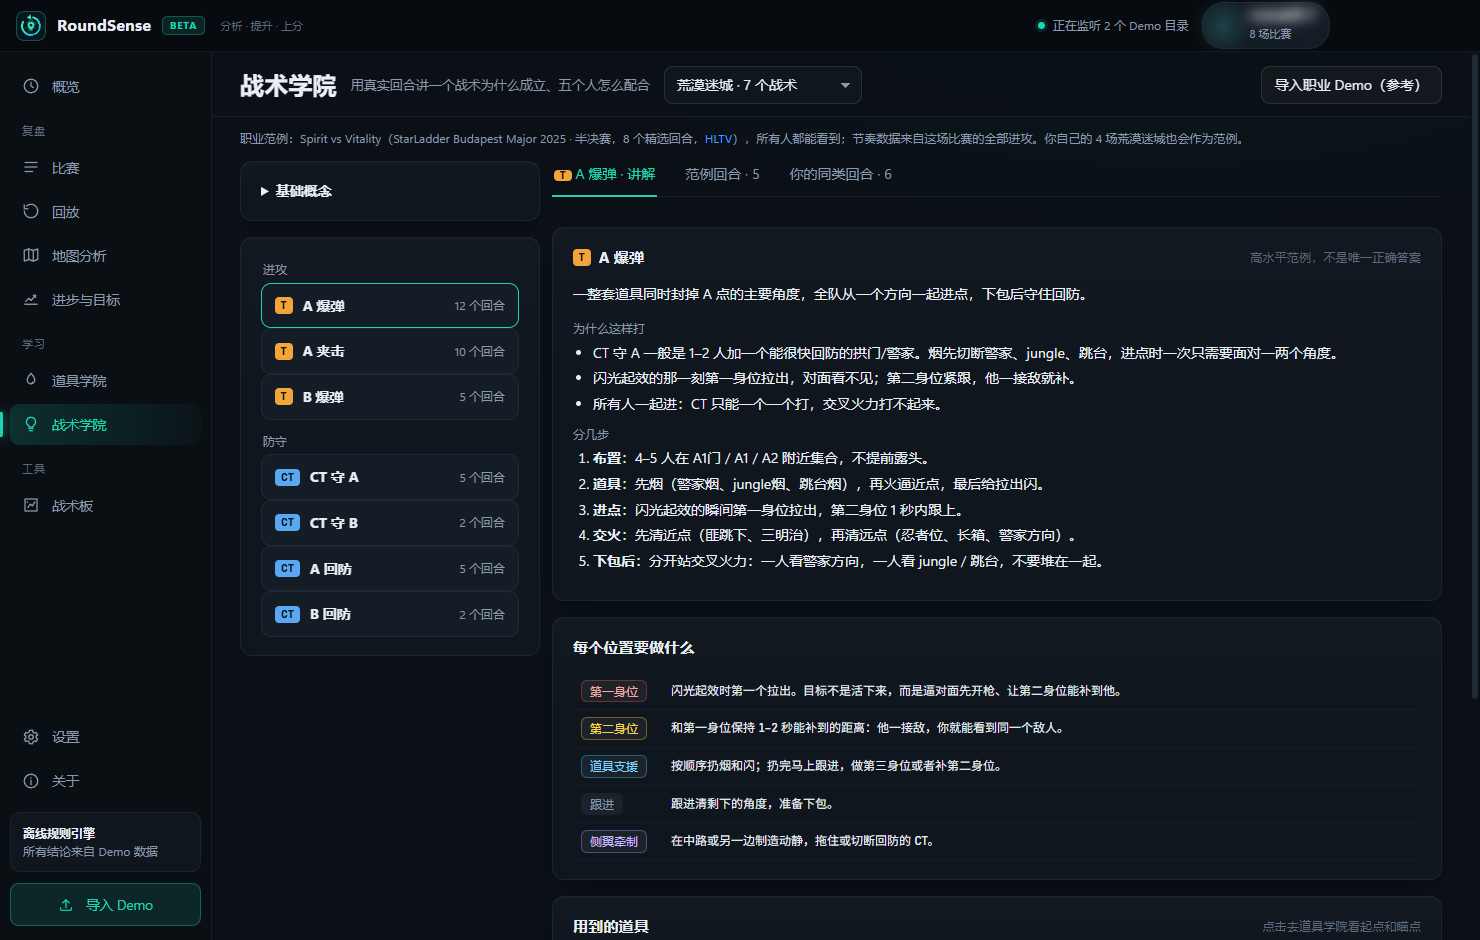
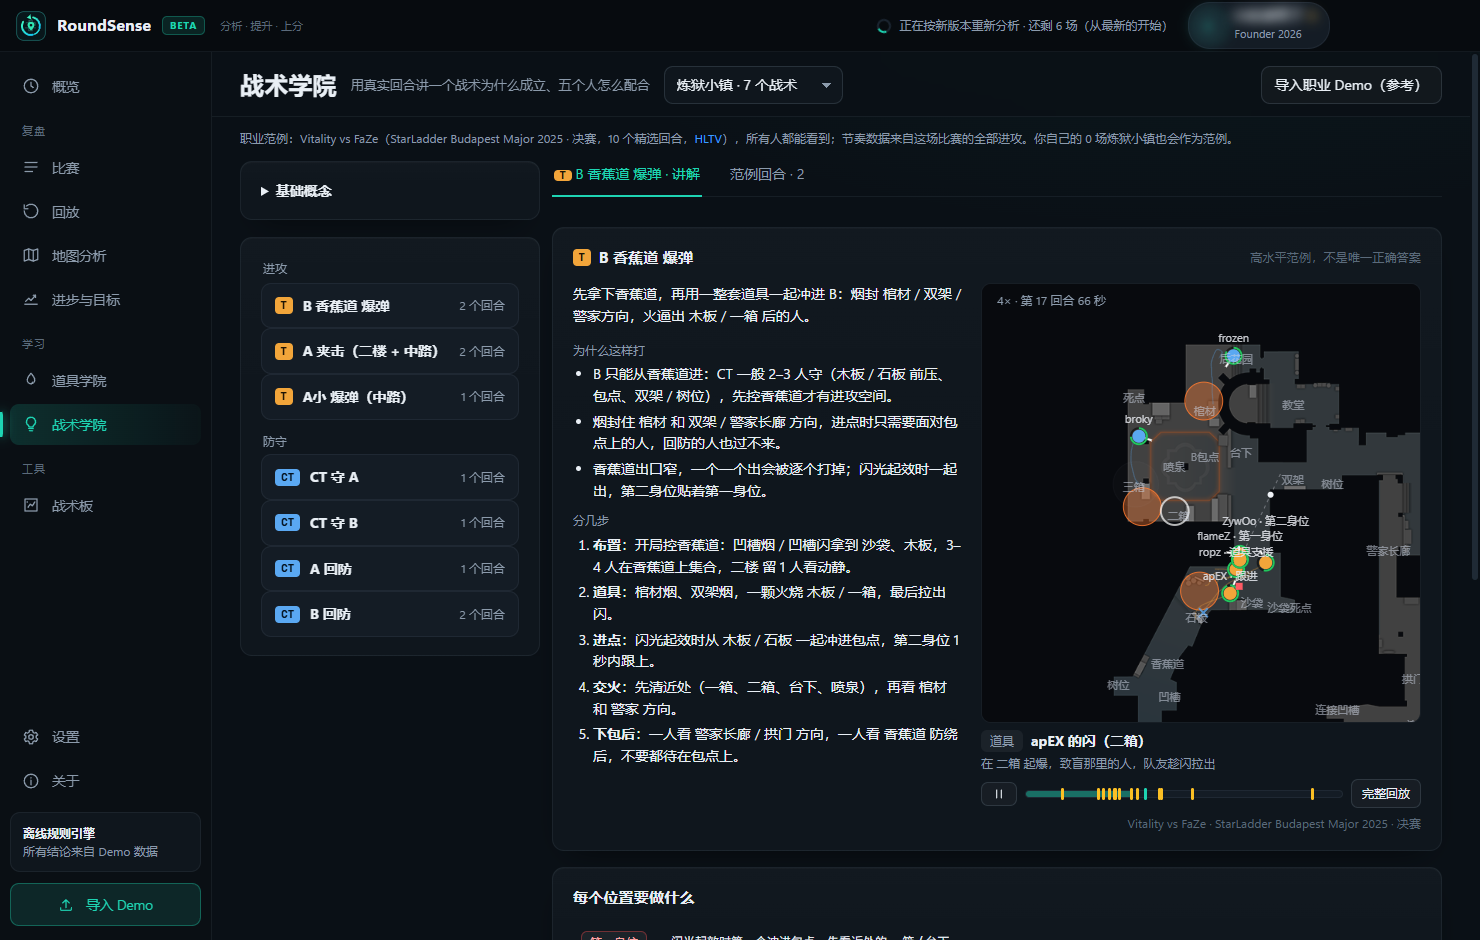
Screenshot: tactics academy with the pro clip playing

diff --git a/README.en.md b/README.en.md
@@ -43,7 +43,7 @@ Every conclusion comes from demo data and a deterministic rule engine, with evid
 |---|---|
 | ![Replay](images/replay-lesson.png) | ![3D replay](images/replay-3d.png) |
 
-| Tactical academy | Tactical board |
+| Tactical academy (a pro round plays beside each tactic) | Tactical board |
 |---|---|
 | ![Academy](images/academy.png) | ![Board](images/board.png) |
 

diff --git a/README.md b/README.md
@@ -42,7 +42,7 @@ Windows 桌面应用 · 本地解析 · 免费使用 · 支持完美平台 / 5E 
 |---|---|
 | ![回放](images/replay-lesson.png) | ![3D 回放](images/replay-3d.png) |
 
-| 战术学院 | 战术板 |
+| 战术学院（讲解旁边自动播放职业范例回合） | 战术板 |
 |---|---|
 | ![战术学院](images/academy.png) | ![战术板](images/board.png) |
 
